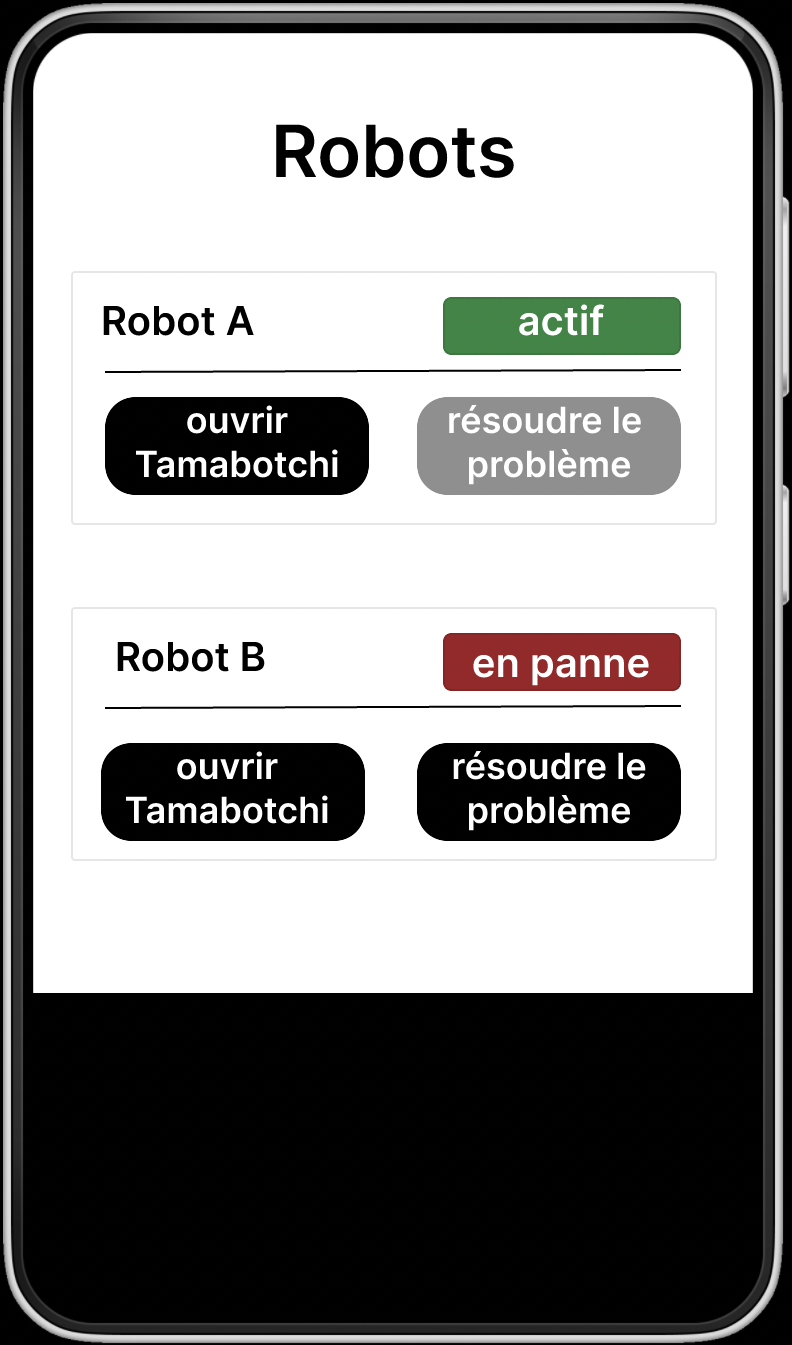
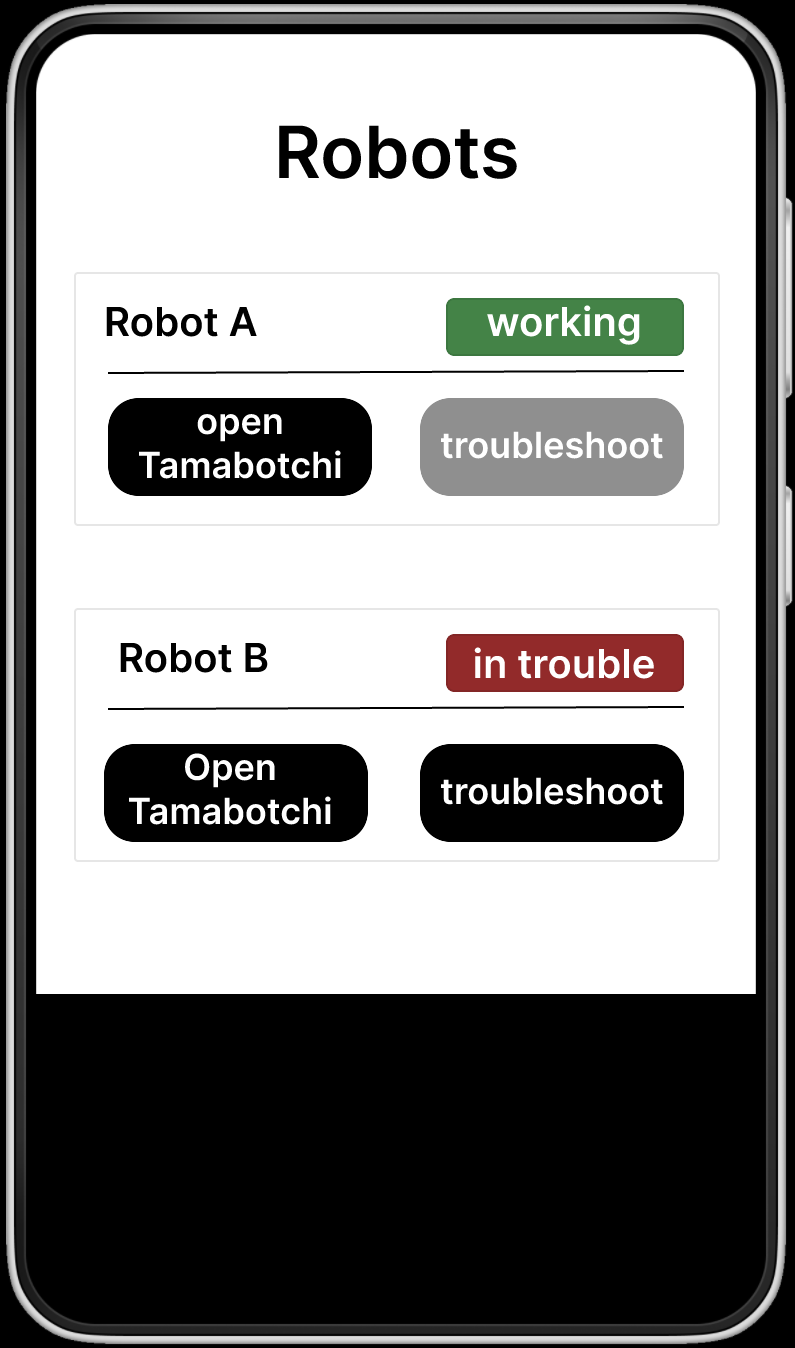
update english app hopepage

diff --git a/src/slides.svelte b/src/slides.svelte
@@ -118,7 +118,7 @@
 			<ul class="a"> 
 				<li>Our solution: </li>
 				<ul class="b">
-					<li>Diagnostic AI to ease problem-finding</li>
+					<li>Diagnostic AI to ease problem and finding</li>
 					<li>Remote assistance in case expert help is needed</li>
 					<li>Gamification to make the robot more approachable</li>
 				</ul>
